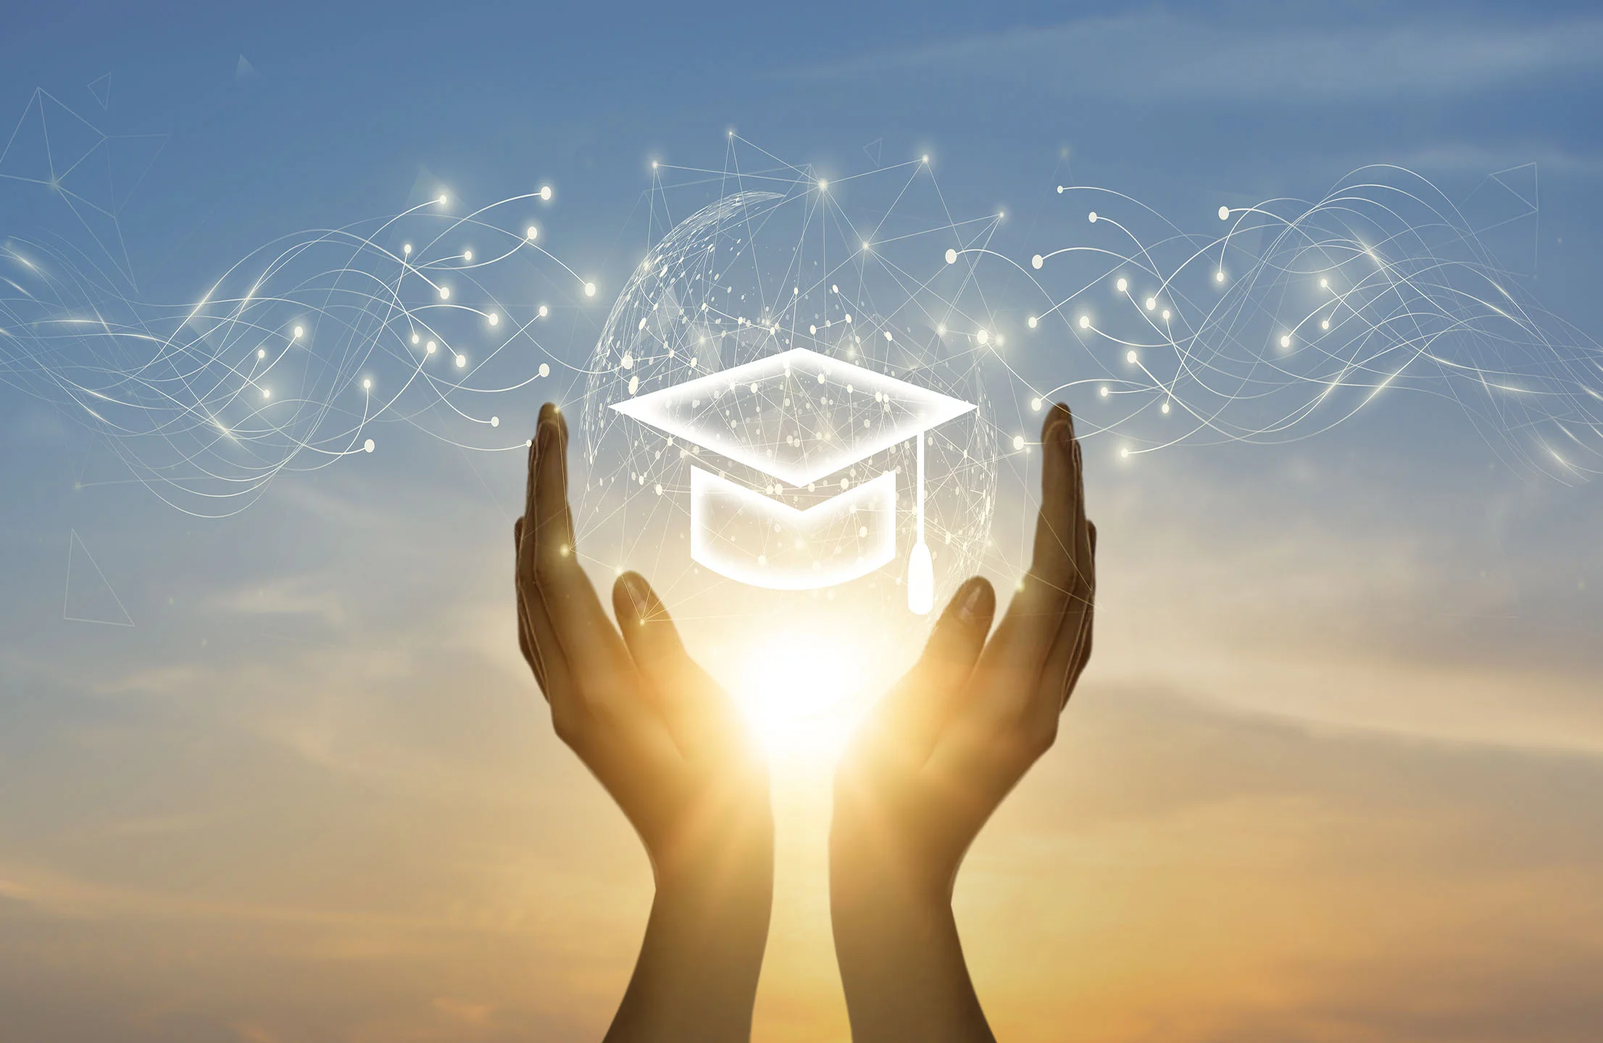
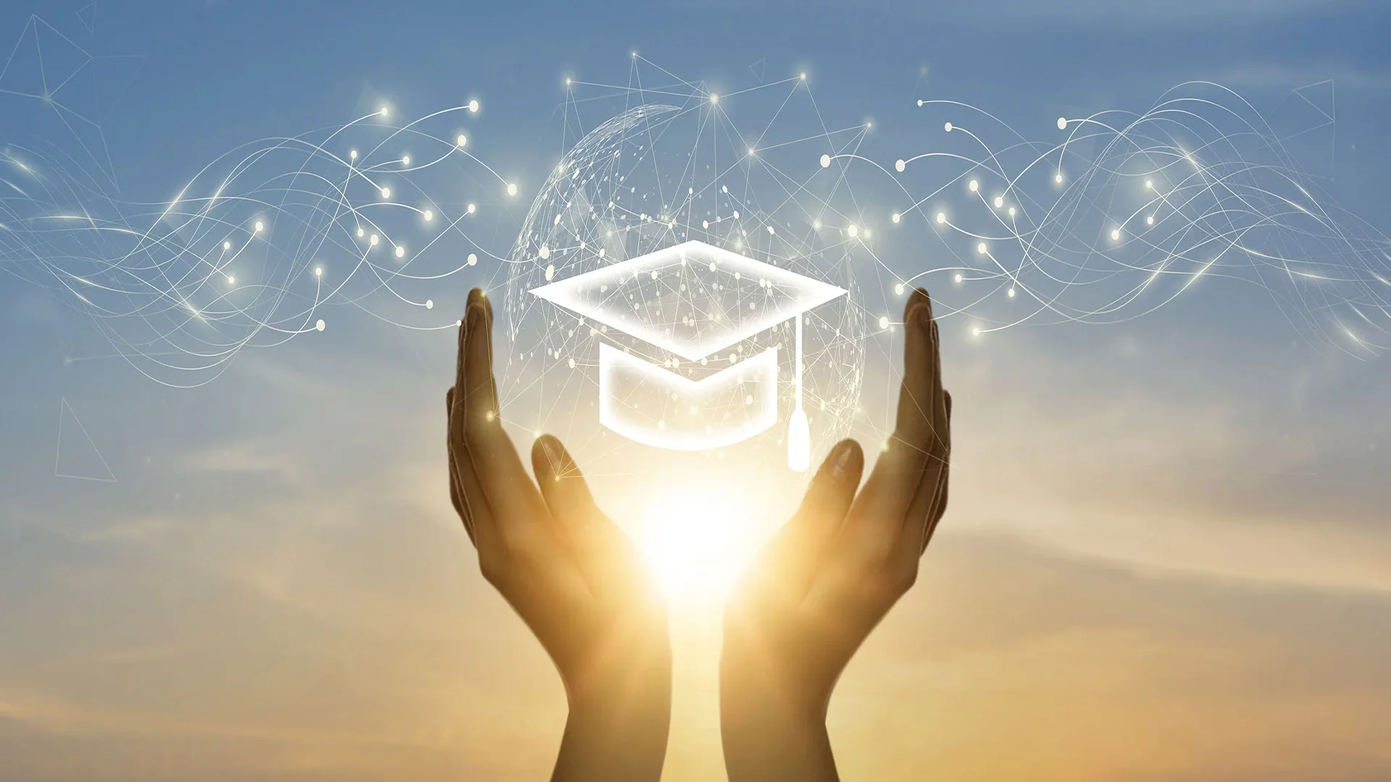
cambios imagenes optimizadas

diff --git a/content/conductas_adictivas/formacion_conductas_adictivas.html b/content/conductas_adictivas/formacion_conductas_adictivas.html
@@ -17,13 +17,13 @@
   <meta property="og:description" content="Accede a contenidos SCORM sobre autoestima, habilidades sociales, comunicación y creencias sobre el consumo de sustancias.">
   <meta property="og:type" content="website">
   <meta property="og:url" content="https://sanidademediaverso.sergas.gal/content/conductas_adictivas/formacion_conductas_adictivas.html">
-  <meta property="og:image" content="https://sanidademediaverso.sergas.gal/assets/img/formacion-conductas-adictivas-subbanner1.svg">
+  <meta property="og:image" content="https://sanidademediaverso.sergas.gal/assets/img/formacion-conductas-adictivas-banner1.webp">
 
   <!-- Twitter Card -->
   <meta name="twitter:card" content="summary_large_image">
   <meta name="twitter:title" content="Formación en conductas adictivas | Sanidade Mediaverso">
   <meta name="twitter:description" content="Material educativo interactivo sobre prevención de conductas adictivas.">
-  <meta name="twitter:image" content="https://sanidademediaverso.sergas.gal/assets/img/formacion-conductas-adictivas-subbanner1.svg">
+  <meta name="twitter:image" content="https://sanidademediaverso.sergas.gal/assets/img/formacion-conductas-adictivas-banner1.webp">
 
   <!-- Google Fonts -->
   <link href="https://fonts.googleapis.com/css2?family=Open+Sans:wght@400;600&family=Poppins:wght@500;700&display=swap" rel="stylesheet">
@@ -63,7 +63,7 @@
       "@type": "GovernmentOrganization",
       "name": "Sanidade Mediaverso - Sergas"
     },
-    "image": "https://sanidademediaverso.sergas.gal/assets/img/formacion-conductas-adictivas-subbanner1.svg"
+    "image": "https://sanidademediaverso.sergas.gal/assets/img/formacion-conductas-adictivas-banner1.webp"
   }
   </script>
 </head>
@@ -148,7 +148,7 @@
         <div class="col-12 col-md-6 col-lg-4 col-xl-3 p-3">
           <div class="card rounded-4 hover-scale  shadow text-center">
             <div class="card-header rounded-top  bg-primary p-0">
-              <img class="card-img-top rounded-top " src="../../assets/img/formacion-conductas-adictivas-4.jpg" alt="Imagen de la formación en conductas adictivas 1"
+              <img class="card-img-top rounded-top " src="../../assets/img/formacion-conductas-adictivas-4.webp" alt="Imagen de la formación en conductas adictivas 1"
                 style="width: 100%; height: 200px; object-fit: cover;">
             </div>
             <!-- Cambiamos justify-content-center por justify-content-start para alinear al tope -->
@@ -164,7 +164,7 @@
         <div class="col-12 col-md-6 col-lg-4 col-xl-3 p-3">
           <div class="card rounded-4 hover-scale  shadow text-center">
             <div class="card-header rounded-top  bg-primary p-0">
-              <img class="card-img-top rounded-top " src="../../assets/img/formacion-conductas-adictivas-3.png" alt="Imagen de la formación en conductas adictivas 1"
+              <img class="card-img-top rounded-top " src="../../assets/img/formacion-conductas-adictivas-3.webp" alt="Imagen de la formación en conductas adictivas 1"
                 style="width: 100%; height: 200px; object-fit: cover;">
             </div>
             <!-- Cambiamos justify-content-center por justify-content-start para alinear al tope -->
@@ -180,7 +180,7 @@
         <div class="col-12 col-md-6 col-lg-4 col-xl-3 p-3">
           <div class="card rounded-4 hover-scale  shadow text-center">
             <div class="card-header rounded-top  bg-primary p-0">
-              <img class="card-img-top rounded-top " src="../../assets/img/formacion-conductas-adictivas-2.jpeg" alt="Imagen de la formación en conductas adictivas 1"
+              <img class="card-img-top rounded-top " src="../../assets/img/formacion-conductas-adictivas-2.webp" alt="Imagen de la formación en conductas adictivas 1"
                 style="width: 100%; height: 200px; object-fit: cover;">
             </div>
             <!-- Cambiamos justify-content-center por justify-content-start para alinear al tope -->
@@ -196,7 +196,7 @@
         <div class="col-12 col-md-6 col-lg-4 col-xl-3 p-3">
           <div class="card rounded-4 hover-scale  shadow text-center">
             <div class="card-header rounded-top  bg-primary p-0">
-              <img class="card-img-top rounded-top " src="../../assets/img/formacion-conductas-adictivas-1.jpeg" alt="Imagen de la formación en conductas adictivas 1"
+              <img class="card-img-top rounded-top " src="../../assets/img/formacion-conductas-adictivas-1.webp" alt="Imagen de la formación en conductas adictivas 1"
                 style="width: 100%; height: 200px; object-fit: cover;">
             </div>
             <!-- Cambiamos justify-content-center por justify-content-start para alinear al tope -->

diff --git a/content/bienestar_emocional/formacion_programa_bienestar_emocional.html b/content/bienestar_emocional/formacion_programa_bienestar_emocional.html
@@ -13,7 +13,7 @@
   <!-- Open Graph -->
   <meta property="og:title" content="Programa Bienestar Emocional | Sanidade Mediaverso" />
   <meta property="og:description" content="Formación gratuita para el desarrollo emocional y personal. Accede a contenidos SCORM guiados en español y gallego." />
-  <meta property="og:image" content="https://sanidademediaverso.sergas.gal/assets/img/formacion-bienestar-emocional-subbanner1.svg" />
+  <meta property="og:image" content="https://sanidademediaverso.sergas.gal/assets/img/formacion-bienestar-emocional-banner1.webp" />
   <meta property="og:url" content="https://sanidademediaverso.sergas.gal/content/bienestar_emocional/formacion_programa_bienestar_emocional.html" />
   <meta property="og:type" content="website" />
 
@@ -21,7 +21,7 @@
   <meta name="twitter:card" content="summary_large_image" />
   <meta name="twitter:title" content="Programa Bienestar Emocional | Sanidade Mediaverso" />
   <meta name="twitter:description" content="Accede gratis al programa formativo de bienestar emocional: SCORM interactivos para mejorar tu salud emocional." />
-  <meta name="twitter:image" content="https://sanidademediaverso.sergas.gal/assets/img/formacion-bienestar-emocional-subbanner1.svg" />
+  <meta name="twitter:image" content="https://sanidademediaverso.sergas.gal/assets/img/formacion-bienestar-emocional-banner1.webp" />
 
   <!-- JSON-LD estructurado -->
   <script type="application/ld+json">
@@ -142,7 +142,7 @@
             <div class="col-12 col-md-6 col-lg-4 col-xl-3 p-3">
             <div class="card rounded-4 hover-scale  shadow text-center">
               <div class="card-header rounded-top  bg-primary p-0">
-                <img class="card-img-top rounded-top " src="../../assets/img/formacion-bienestar-emocional-9.jpg" alt="Imagen de la formación bienestar 1"
+                <img class="card-img-top rounded-top " src="../../assets/img/formacion-bienestar-emocional-9.webp" alt="Imagen de la formación bienestar 1"
                     style="width: 100%; height: 200px; object-fit: cover;">
                 </div>
                 <!-- Cambiamos justify-content-center por justify-content-start para alinear al tope -->
@@ -158,7 +158,7 @@
             <div class="col-12 col-md-6 col-lg-4 col-xl-3 p-3">
             <div class="card rounded-4 hover-scale  shadow text-center">
               <div class="card-header rounded-top  bg-primary p-0">
-                <img class="card-img-top rounded-top " src="../../assets/img/formacion-bienestar-emocional-10.jpg" alt="Imagen de la formación bienestar 2"
+                <img class="card-img-top rounded-top " src="../../assets/img/formacion-bienestar-emocional-10.webp" alt="Imagen de la formación bienestar 2"
                     style="width: 100%; height: 200px; object-fit: cover;">
                 </div>
                 <!-- Cambiamos justify-content-center por justify-content-start para alinear al tope -->
@@ -174,7 +174,7 @@
             <div class="col-12 col-md-6 col-lg-4 col-xl-3 p-3">
                 <div class="card rounded-4 hover-scale  shadow text-center">
                   <div class="card-header rounded-top  bg-primary p-0">
-                    <img class="card-img-top rounded-top " src="../../assets/img/formacion-bienestar-emocional-11.jpg"  alt="Imagen de la formación bienestar 3"
+                    <img class="card-img-top rounded-top " src="../../assets/img/formacion-bienestar-emocional-11.webp"  alt="Imagen de la formación bienestar 3"
                         style="width: 100%; height: 200px; object-fit: cover;">
                     </div>
                     <!-- Cambiamos justify-content-center por justify-content-start para alinear al tope -->
@@ -190,7 +190,7 @@
                 <div class="col-12 col-md-6 col-lg-4 col-xl-3 p-3">
                 <div class="card rounded-4 hover-scale  shadow text-center">
                   <div class="card-header rounded-top  bg-primary p-0">
-                    <img class="card-img-top rounded-top " src="../../assets/img/formacion-bienestar-emocional-12.jpg" alt="Imagen de la formación bienestar 4"
+                    <img class="card-img-top rounded-top " src="../../assets/img/formacion-bienestar-emocional-12.webp" alt="Imagen de la formación bienestar 4"
                         style="width: 100%; height: 200px; object-fit: cover;">
                     </div>
                     <!-- Cambiamos justify-content-center por justify-content-start para alinear al tope -->

diff --git a/content/bienestar_emocional/formacion_bienestar_emocional.html b/content/bienestar_emocional/formacion_bienestar_emocional.html
@@ -119,7 +119,7 @@
         <div class="col-12 col-md-6 col-lg-4 col-xl-3 p-3">
           <div class="card rounded-4 hover-scale  shadow text-center">
             <div class="card-header rounded-top  bg-primary p-0">
-              <img class="card-img-top rounded-top " src="../../assets/img/formacion-bienestar-emocional-5.jpg"
+              <img class="card-img-top rounded-top " src="../../assets/img/formacion-bienestar-emocional-5.webp"
                 style="width: 100%; height: 200px; object-fit: cover;">
             </div>
             <!-- Cambiamos justify-content-center por justify-content-start para alinear al tope -->
@@ -135,7 +135,7 @@
         <div class="col-12 col-md-6 col-lg-4 col-xl-3 p-3">
           <div class="card rounded-4 hover-scale  shadow text-center">
             <div class="card-header rounded-top  bg-primary p-0">
-              <img class="card-img-top rounded-top " src="../../assets/img/formacion-bienestar-emocional-2.jpeg"
+              <img class="card-img-top rounded-top " src="../../assets/img/formacion-bienestar-emocional-2.webp"
                 style="width: 100%; height: 200px; object-fit: cover;">
             </div>
             <!-- Cambiamos justify-content-center por justify-content-start para alinear al tope -->
@@ -151,7 +151,7 @@
         <div class="col-12 col-md-6 col-lg-4 col-xl-3 p-3">
           <div class="card rounded-4 hover-scale  shadow text-center">
             <div class="card-header rounded-top  bg-primary p-0">
-              <img class="card-img-top rounded-top " src="../../assets/img/formacion-bienestar-emocional-3.jpg"
+              <img class="card-img-top rounded-top " src="../../assets/img/formacion-bienestar-emocional-3.webp"
                 style="width: 100%; height: 200px; object-fit: cover;">
             </div>
             <!-- Cambiamos justify-content-center por justify-content-start para alinear al tope -->
@@ -167,7 +167,7 @@
         <div class="col-12 col-md-6 col-lg-4 col-xl-3 p-3">
           <div class="card rounded-4 hover-scale  shadow text-center">
             <div class="card-header rounded-top  bg-primary p-0">
-              <img class="card-img-top rounded-top " src="../../assets/img/formacion-bienestar-emocional-4.jpg"
+              <img class="card-img-top rounded-top " src="../../assets/img/formacion-bienestar-emocional-7.webp"
                 style="width: 100%; height: 200px; object-fit: cover;">
             </div>
             <!-- Cambiamos justify-content-center por justify-content-start para alinear al tope -->
@@ -183,7 +183,7 @@
         <div class="col-12 col-md-6 col-lg-4 col-xl-3 p-3">
           <div class="card rounded-4 hover-scale  shadow text-center">
             <div class="card-header rounded-top  bg-primary p-0">
-              <img class="card-img-top rounded-top " src="../../assets/img/formacion-bienestar-emocional-1.jpg"
+              <img class="card-img-top rounded-top " src="../../assets/img/formacion-bienestar-emocional-1.webp"
                 style="width: 100%; height: 200px; object-fit: cover;">
             </div>
             <!-- Cambiamos justify-content-center por justify-content-start para alinear al tope -->
@@ -198,7 +198,7 @@
         <div class="col-12 col-md-6 col-lg-4 col-xl-3 p-3">
           <div class="card rounded-4 hover-scale  shadow text-center">
             <div class="card-header rounded-top  bg-primary p-0">
-              <img class="card-img-top rounded-top " src="../../assets/img/formacion-bienestar-emocional-6.jpg"
+              <img class="card-img-top rounded-top " src="../../assets/img/formacion-bienestar-emocional-6.webp"
                 style="width: 100%; height: 200px; object-fit: cover;">
             </div>
             <!-- Cambiamos justify-content-center por justify-content-start para alinear al tope -->

diff --git a/content/bienestar_emocional/formacion_midfulness.html b/content/bienestar_emocional/formacion_midfulness.html
@@ -12,7 +12,7 @@
     <!-- Open Graph -->
     <meta property="og:title" content="Formación en Mindfulness | Sanidad Mediaverso" />
     <meta property="og:description" content="Explora recursos educativos SCORM sobre mindfulness, disponibles en español y gallego." />
-    <meta property="og:image" content="https://sanidademediaverso.sergas.gal/assets/img/formacion-bienestar-emocional-subbanner1.svg" />
+    <meta property="og:image" content="https://sanidademediaverso.sergas.gal/assets/img/formacion-bienestar-emocional-banner1.webp" />
     <meta property="og:url" content="https://sanidademediaverso.sergas.gal/content/bienestar_emocional/formacion_midfulness.html" />
     <meta property="og:type" content="website" />
   
@@ -20,7 +20,7 @@
     <meta name="twitter:card" content="summary_large_image" />
     <meta name="twitter:title" content="Formación en Mindfulness | Sanidad Mediaverso" />
     <meta name="twitter:description" content="Accede a contenidos gratuitos sobre técnicas de mindfulness para mejorar tu salud emocional." />
-    <meta name="twitter:image" content="https://sanidademediaverso.sergas.gal/assets/img/formacion-bienestar-emocional-subbanner1.svg" />
+    <meta name="twitter:image" content="https://sanidademediaverso.sergas.gal/assets/img/formacion-bienestar-emocional-banner1.webp" />
   
     <!-- JSON-LD estructurado -->
     <script type="application/ld+json">
@@ -133,7 +133,7 @@
         <div class="col-12 col-md-6 col-lg-4 col-xl-3 p-3">
           <div class="card rounded-4 hover-scale shadow text-center">
             <div class="card-header rounded-top  bg-primary p-0">
-              <img class="card-img-top rounded-top " src="../../assets/img/formacion-bienestar-emocional-8.jpg"
+              <img class="card-img-top rounded-top " src="../../assets/img/formacion-bienestar-emocional-8.webp"
                 style="width: 100%; height: 200px; object-fit: cover"
               />
             </div>
@@ -167,7 +167,7 @@
         <div class="col-12 col-md-6 col-lg-4 col-xl-3 p-3">
           <div class="card rounded-4 hover-scale shadow text-center">
             <div class="card-header rounded-top  bg-primary p-0">
-              <img class="card-img-top rounded-top " src="../../assets/img/formacion-bienestar-emocional-7.jpg"
+              <img class="card-img-top rounded-top " src="../../assets/img/formacion-bienestar-emocional-7.webp"
                 style="width: 100%; height: 200px; object-fit: cover"
               />
             </div>

diff --git a/content/alimentacion/formacion_alimentacion_saludable.html b/content/alimentacion/formacion_alimentacion_saludable.html
@@ -129,7 +129,7 @@
               <div class="card-header rounded-top  bg-primary p-0">
                 <img
                   class="card-img-top rounded-top"
-                  src="../../assets/img/formacion-alimentacion-saludable-1.png"
+                  src="../../assets/img/formacion-alimentacion-saludable-1.webp"
                   style="width: 100%; height: 200px; object-fit: cover"
                 />
               </div>
@@ -145,7 +145,7 @@
         <div class="col-12 col-md-6 col-lg-4 col-xl-3 p-3">
           <div class="card rounded-4 hover-scale  shadow text-center">
             <div class="card-header rounded-top  bg-primary p-0">
-              <img class="card-img-top  rounded-top" src="../../assets/img/formacion-alimentacion-saludable-2.png"
+              <img class="card-img-top  rounded-top" src="../../assets/img/formacion-alimentacion-saludable-2.webp"
                 style="width: 100%; height: 200px; object-fit: cover;">
             </div>
             <!-- Cambiamos justify-content-center por justify-content-start para alinear al tope -->
@@ -161,7 +161,7 @@
         <div class="col-12 col-md-6 col-lg-4 col-xl-3 p-3">
           <div class="card rounded-4 hover-scale  shadow text-center">
             <div class="card-header rounded-top  bg-primary p-0">
-              <img class="card-img-top  rounded-top " src="../../assets/img/formacion-alimentacion-saludable-4.jpeg"
+              <img class="card-img-top  rounded-top " src="../../assets/img/formacion-alimentacion-saludable-4.webp"
                 style="width: 100%; height: 200px; object-fit: cover;">
             </div>
             <!-- Cambiamos justify-content-center por justify-content-start para alinear al tope -->
@@ -176,7 +176,7 @@
         <div class="col-12 col-md-6 col-lg-4 col-xl-3 p-3">
           <div class="card rounded-4 hover-scale  shadow text-center">
             <div class="card-header rounded-top  bg-primary p-0">
-              <img class="card-img-top  rounded-top " src="../../assets/img/formacion-alimentacion-saludable-3.jpeg"
+              <img class="card-img-top  rounded-top " src="../../assets/img/formacion-alimentacion-saludable-3.webp"
                 style="width: 100%; height: 200px; object-fit: cover;">
             </div>
             <!-- Cambiamos justify-content-center por justify-content-start para alinear al tope -->

diff --git a/content/alimentacion/formacion_salud_nutricion_dietetica.html b/content/alimentacion/formacion_salud_nutricion_dietetica.html
@@ -131,7 +131,7 @@
         <div class="col-12 col-md-6 col-lg-4 col-xl-3 p-3">
           <div class="card rounded-4 hover-scale  shadow text-center">
             <div class="card-header rounded-top  bg-primary p-0">
-              <img class="card-img-top rounded-top " src="../../assets/img/formacion-alimentacion-saludable-7.jpeg"
+              <img class="card-img-top rounded-top " src="../../assets/img/formacion-alimentacion-saludable-7.webp"
                 style="width: 100%; height: 200px; object-fit: cover;">
             </div>
             <!-- Cambiamos justify-content-center por justify-content-start para alinear al tope -->
@@ -147,7 +147,7 @@
         <div class="col-12 col-md-6 col-lg-4 col-xl-3 p-3">
           <div class="card rounded-4 hover-scale  shadow text-center">
             <div class="card-header rounded-top  bg-primary p-0">
-              <img class="card-img-top rounded-top " src="../../assets/img/formacion-alimentacion-saludable-8.jpeg"
+              <img class="card-img-top rounded-top " src="../../assets/img/formacion-alimentacion-saludable-8.webp"
                 style="width: 100%; height: 200px; object-fit: cover;">
             </div>
             <!-- Cambiamos justify-content-center por justify-content-start para alinear al tope -->
@@ -163,7 +163,7 @@
         <div class="col-12 col-md-6 col-lg-4 col-xl-3 p-3">
           <div class="card rounded-4 hover-scale  shadow text-center">
             <div class="card-header rounded-top  bg-primary p-0">
-              <img class="card-img-top rounded-top " src="../../assets/img/formacion-alimentacion-saludable-9.jpeg"
+              <img class="card-img-top rounded-top " src="../../assets/img/formacion-alimentacion-saludable-9.webp"
                 style="width: 100%; height: 200px; object-fit: cover;">
             </div>
             <!-- Cambiamos justify-content-center por justify-content-start para alinear al tope -->

diff --git a/content/actividad_fisica/formacion_actividad_fisica.html b/content/actividad_fisica/formacion_actividad_fisica.html
@@ -140,7 +140,7 @@
         <div class="col-12 col-md-6 col-lg-4 col-xl-3 p-3">
           <div class="card rounded-4 hover-scale  shadow text-center">
             <div class="card-header rounded-top  bg-primary p-0">
-              <img class="card-img-top rounded-top " src="../../assets/img/formacion-actividad-fisica-4.jpeg"
+              <img class="card-img-top rounded-top " src="../../assets/img/formacion-actividad-fisica-4.webp"
                 style="width: 100%; height: 200px; ">
             </div>
             <!-- Cambiamos justify-content-center por justify-content-start para alinear al tope -->
@@ -156,7 +156,7 @@
         <div class="col-12 col-md-6 col-lg-4 col-xl-3 p-3">
           <div class="card rounded-4 hover-scale  shadow text-center">
             <div class="card-header rounded-top  bg-primary p-0">
-              <img class="card-img-top rounded-top "  src="../../assets/img/formacion-actividad-fisica-7.jpeg"
+              <img class="card-img-top rounded-top "  src="../../assets/img/formacion-actividad-fisica-7.webp"
                 style="width: 100%; height: 200px; ">
             </div>
             <!-- Cambiamos justify-content-center por justify-content-start para alinear al tope -->
@@ -172,7 +172,7 @@
         <div class="col-12 col-md-6 col-lg-4 col-xl-3 p-3">
           <div class="card rounded-4 hover-scale  shadow text-center">
             <div class="card-header rounded-top  bg-primary p-0">
-              <img class="card-img-top rounded-top " src="../../assets/img/formacion-actividad-fisica-5.jpeg"
+              <img class="card-img-top rounded-top " src="../../assets/img/formacion-actividad-fisica-5.webp"
                 style="width: 100%; height: 200px;">
             </div>
             <!-- Cambiamos justify-content-center por justify-content-start para alinear al tope -->

diff --git a/content/bienestar_emocional/programas_bienestar_emocional.html b/content/bienestar_emocional/programas_bienestar_emocional.html
@@ -13,7 +13,7 @@
   <!-- Open Graph -->
   <meta property="og:title" content="Vídeos Big Fit | Bienestar Emocional | Sanidade Mediaverso" />
   <meta property="og:description" content="Visualiza los vídeos de formación emocional de Big Fit. Dos niveles de aprendizaje en formato accesible para fomentar el bienestar personal." />
-  <meta property="og:image" content="https://sanidademediaverso.sergas.gal/assets/img/formacion-bienestar-emocional-subbanner1.svg" />
+  <meta property="og:image" content="https://sanidademediaverso.sergas.gal/assets/img/formacion-bienestar-emocional-banner1.webp" />
   <meta property="og:url" content="https://sanidademediaverso.sergas.gal/content/bienestar_emocional/programas_bienestar_emocional.html" />
   <meta property="og:type" content="website" />
 
@@ -21,7 +21,7 @@
   <meta name="twitter:card" content="summary_large_image" />
   <meta name="twitter:title" content="Vídeos Big Fit | Bienestar Emocional | Sanidade Mediaverso" />
   <meta name="twitter:description" content="Aprende a mejorar tu bienestar emocional con los vídeos del programa Big Fit. Acceso libre en gallego y español." />
-  <meta name="twitter:image" content="https://sanidademediaverso.sergas.gal/assets/img/formacion-bienestar-emocional-subbanner1.svg" />
+  <meta name="twitter:image" content="https://sanidademediaverso.sergas.gal/assets/img/formacion-bienestar-emocional-banner1.webp" />
 
   <!-- JSON-LD estructurado -->
   <script type="application/ld+json">

diff --git a/content/alimentacion/formacion_comer_sentirse_bien.html b/content/alimentacion/formacion_comer_sentirse_bien.html
@@ -128,7 +128,7 @@
         <div class="col-12 col-md-6 col-lg-4 col-xl-3 p-3">
           <div class="card rounded-4 hover-scale  shadow text-center">
             <div class="card-header rounded-top  bg-primary p-0">
-              <img class="card-img-top rounded-top " src="../../assets/img/formacion-alimentacion-saludable-5.jpeg"
+              <img class="card-img-top rounded-top " src="../../assets/img/formacion-alimentacion-saludable-5.webp"
                 style="width: 100%; height: 200px; object-fit: cover;">
             </div>
             <!-- Cambiamos justify-content-center por justify-content-start para alinear al tope -->
@@ -144,7 +144,7 @@
         <div class="col-12 col-md-6 col-lg-4 col-xl-3 p-3">
             <div class="card rounded-4 hover-scale  shadow text-center">
               <div class="card-header rounded-top  bg-primary p-0">
-                <img class="card-img-top rounded-top " src="../../assets/img/formacion-alimentacion-saludable-6.jpeg"
+                <img class="card-img-top rounded-top " src="../../assets/img/formacion-alimentacion-saludable-6.webp"
                   style="width: 100%; height: 200px; object-fit: cover;">
               </div>
               <!-- Cambiamos justify-content-center por justify-content-start para alinear al tope -->
